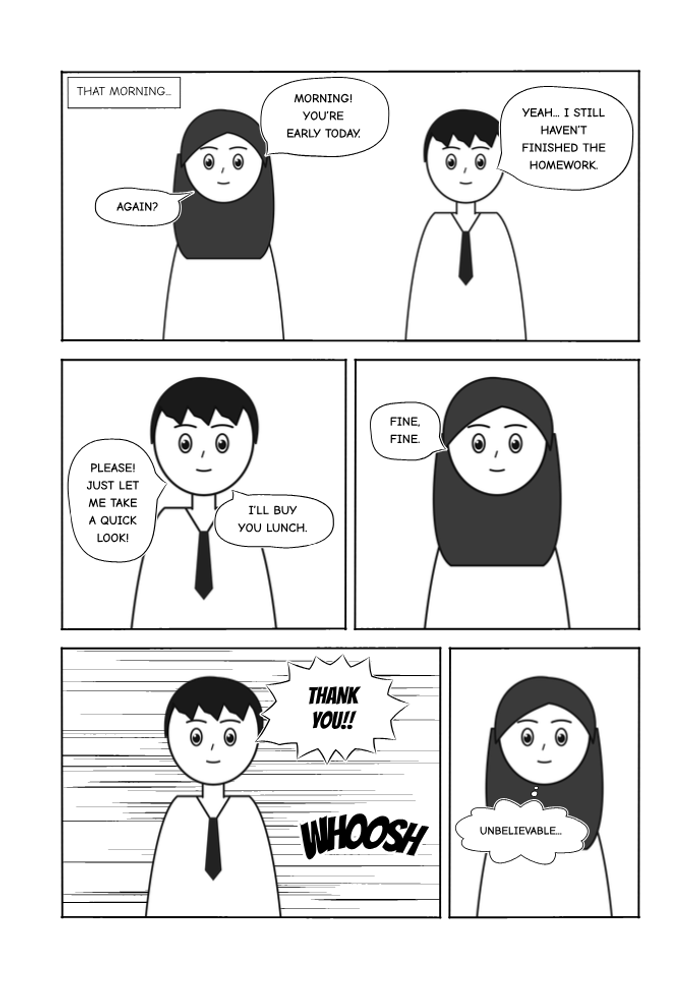
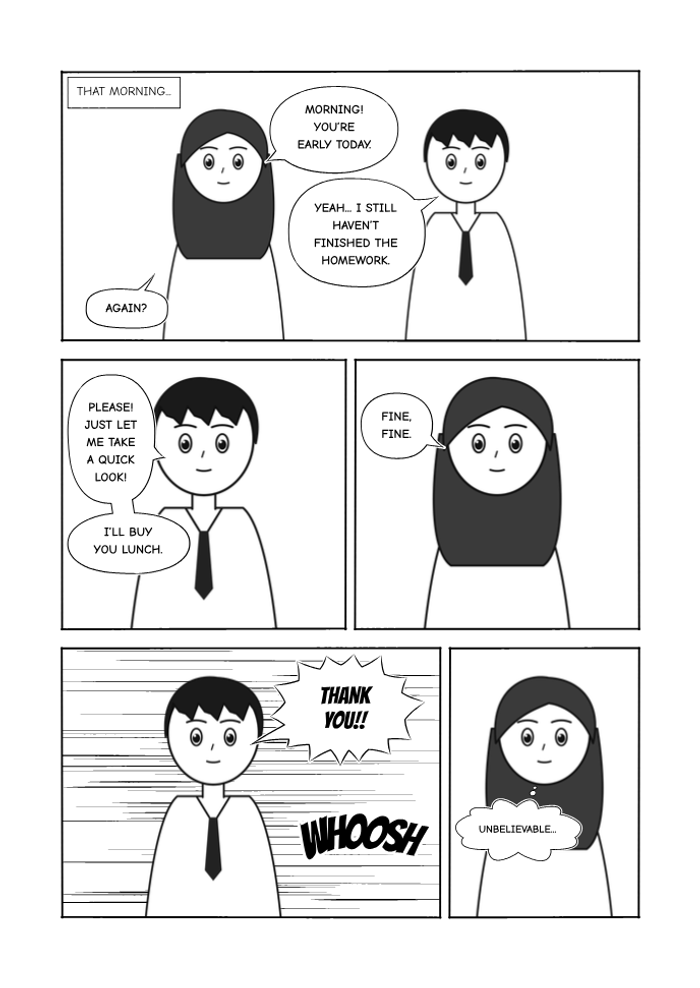
吹き出しを漫画の写植に近づける: 本体を整った楕円（本文の形で角を調整）、しっぽを細く鋭く、余白を広げる。角張った hexagon 形と as: gruff を追加。手で改行した行は少し長くても保つ

diff --git a/src/shapes/balloon.ts b/src/shapes/balloon.ts
@@ -85,7 +85,7 @@ function harmonic(h: Harmonics, th: number): number {
 function organicEllipse(a: number, b: number, p: ShapeParams, rng: Rng): (th: number) => number {
   const sq = p.squareness ?? 0.2;
   const n = 2 + 3 * sq;
-  const egg = p.egg ?? 0.06;
+  const egg = p.egg ?? 0.02;
   const h = harmonics(rng, p.irregularity);
   return (th: number) => seRadius(a, b, n, th) * harmonic(h, th) * (1 + egg * -Math.sin(th) * 0.5);
 }
@@ -351,6 +351,47 @@ const electronic: BodyGenerator = (w, h, p, seed) => {
   return { contour: { pts, closed: true, corners: pts.map((_, i) => ({ index: i, kind: "convex" as const })) }, inner, kind: "electronic", smooth: false, ruler: false };
 };
 
+/** a squared-off balloon (flat, blunt voices): straight sides, softly rounded corners */
+const hexagon: BodyGenerator = (w, h, p, seed) => {
+  const rng = new RngCls(seed);
+  const n = Math.max(5, Math.round(p.corners ?? 6));
+  const a = w / 2;
+  const b = h / 2;
+  // vertices on a superellipse; with 6 sides the flats run up the left and right
+  const ph = Math.PI / 2;
+  const V: Vec[] = [];
+  for (let i = 0; i < n; i++) {
+    const th = ph + (i / n) * TAU + rng.range(-0.04, 0.04) * p.irregularity * 4;
+    const r = seRadius(a, b, 2.4, th) * (1.06 + rng.range(-0.02, 0.02) * p.irregularity * 4);
+    V.push({ x: Math.cos(th) * r, y: Math.sin(th) * r });
+  }
+  const rad = Math.min(a, b) * 0.22;
+  const pts: Vec[] = [];
+  for (let i = 0; i < n; i++) {
+    const P0 = V[(i + n - 1) % n];
+    const P1 = V[i];
+    const P2 = V[(i + 1) % n];
+    const l0 = Math.hypot(P1.x - P0.x, P1.y - P0.y);
+    const l2 = Math.hypot(P2.x - P1.x, P2.y - P1.y);
+    const r0 = Math.min(rad, l0 * 0.35);
+    const r2 = Math.min(rad, l2 * 0.35);
+    const A = { x: P1.x + ((P0.x - P1.x) / l0) * r0, y: P1.y + ((P0.y - P1.y) / l0) * r0 };
+    const B = { x: P1.x + ((P2.x - P1.x) / l2) * r2, y: P1.y + ((P2.y - P1.y) / l2) * r2 };
+    for (let k = 0; k <= 6; k++) {
+      const t = k / 6;
+      pts.push({ x: (1 - t) * (1 - t) * A.x + 2 * t * (1 - t) * P1.x + t * t * B.x, y: (1 - t) * (1 - t) * A.y + 2 * t * (1 - t) * P1.y + t * t * B.y });
+    }
+    // the straight side to the next corner
+    const nl = Math.hypot(V[(i + 2) % n].x - P2.x, V[(i + 2) % n].y - P2.y);
+    const C = { x: P2.x + ((P1.x - P2.x) / l2) * Math.min(rad, l2 * 0.35), y: P2.y + ((P1.y - P2.y) / l2) * Math.min(rad, l2 * 0.35) };
+    const steps = Math.max(2, Math.ceil(Math.hypot(C.x - B.x, C.y - B.y) / 0.8));
+    for (let k = 1; k < steps; k++) pts.push({ x: B.x + ((C.x - B.x) * k) / steps, y: B.y + ((C.y - B.y) * k) / steps });
+    void nl;
+  }
+  const out = pts.map((q) => rot(q, p.tilt));
+  return { contour: { pts: out, closed: true, smooth: true }, inner: shrinkTo(out, 0.97), kind: "hexagon", smooth: true, ruler: false };
+};
+
 /** the outline shrunk toward its centroid: a text area that follows the shape */
 function shrinkTo(pts: Vec[], f: number): Vec[] {
   const cx = pts.reduce((a, q) => a + q.x, 0) / pts.length;
@@ -399,6 +440,7 @@ export const BODY_GENERATORS: Record<string, BodyGenerator> = {
   wavy,
   flash: ellipse,
   electronic,
+  hexagon,
   polygon,
   path: pathShape,
   none,

diff --git a/src/elements/balloon.ts b/src/elements/balloon.ts
@@ -155,6 +155,15 @@ export function planBalloon(el: RElement, ctx: ElemCtx): BalloonPlan {
       if (isFinite(lim)) boxLimit = Math.min(boxLimit ?? Infinity, Math.max(lim, style.fontSize * 4.5));
     }
     const tl = layoutText(text, style, ctx.fonts, boxLimit);
+    // a full block of text gets a balloon with a squarer core; a short word a round one
+    if (kind === "ellipse" && !(isObj(p.shape) && (p.shape as Obj).squareness !== undefined)) {
+      const lens = tl.lines.map((l) => l.length);
+      const L = lens.length;
+      const maxL = Math.max(1e-6, ...lens);
+      const fill = lens.reduce((a, b) => a + b, 0) / (L * maxL);
+      const elong = Math.max(tl.width, tl.height) / Math.max(1e-6, Math.min(tl.width, tl.height));
+      params.squareness = Math.max(0, Math.min(0.3, 0.03 * (L - 1) + (fill - 0.7) * 0.1 + (elong > 2.5 ? 0.25 : 0)));
+    }
     // points relative to text block center
     const cx = tl.width / 2;
     const cy = tl.height / 2;
@@ -457,7 +466,7 @@ function applyTails(contour: ShapeContour, tails: Obj[], tc: TailCtx): TailResul
       continue;
     }
     const gap = t.gap !== undefined ? toMm(t.gap as string, u) : 2 * u.k;
-    const maxLen = t.maxLength !== undefined ? toMm(t.maxLength as string, u) : Math.min(14 * u.k, Math.max(4 * u.k, minSide * 0.8));
+    const maxLen = t.maxLength !== undefined ? toMm(t.maxLength as string, u) : Math.min(10 * u.k, Math.max(3.5 * u.k, minSide * 0.55));
     let length: number;
     if (t.length !== undefined) length = toMm(t.length as string, u);
     else if (target) {
@@ -479,15 +488,15 @@ function applyTails(contour: ShapeContour, tails: Obj[], tc: TailCtx): TailResul
             break;
           }
       }
-      length = Math.min(maxLen, Math.max(2.5 * u.k, avail));
-    } else length = (kind === "zigzag" ? 11 : 5) * u.k;
+      length = Math.min(maxLen, Math.max(3.2 * u.k, avail));
+    } else length = (kind === "zigzag" ? 11 : 4.5) * u.k;
     // off-panel tails run past the frame and are cut by it
     // on a spiky body the tail must outreach the spikes to read as the pointer
     if (!offSide && t.length === undefined && (plan.params.kind === "spike" || plan.params.kind === "burst")) length = Math.max(length * 1.4, 6 * u.k);
     if (offSide && target) length = Math.hypot(target.x - R.x, target.y - R.y);
     const widthScale = typeof t.widthScale === "number" ? t.widthScale : 1;
     // a lightning-bolt tail is a narrower band than a wedge
-    const bw = (t.width !== undefined ? toMm(t.width as string, u) : Math.min(7 * u.k, Math.max(2.6 * u.k, minSide * 0.3)) * (kind === "zigzag" ? 0.7 : 1)) * widthScale;
+    const bw = (t.width !== undefined ? toMm(t.width as string, u) : Math.min(3.4 * u.k, Math.max(1.8 * u.k, minSide * 0.16)) * (kind === "zigzag" ? 1.2 : 1)) * widthScale;
     const bend = typeof t.bend === "number" ? t.bend : 0.1;
     const sideCurve = typeof t.sideCurve === "number" ? t.sideCurve : 0.12;
     const perp = { x: -dir.y, y: dir.x };

diff --git a/src/model/defaults.ts b/src/model/defaults.ts
@@ -9,7 +9,7 @@ export const BUILTIN_DEFAULTS: Record<string, Obj> = {
     background: "paper",
   },
   balloon: {
-    shape: { kind: "ellipse", irregularity: 0.35, tilt: ["-3deg", "3deg"] },
+    shape: { kind: "ellipse", irregularity: 0.12, tilt: ["-1.5deg", "1.5deg"] },
     stroke: { width: "0.25bmm", color: "black", pen: { preset: "g-pen" }, style: "solid", dash: ["1.6bmm", "1.0bmm"], dot: { size: "0.45bmm", gap: "0.9bmm" }, double: { gap: "0.6bmm", inner: "0.2bmm" } },
     fill: "paper",
     tail: { kind: "wedge", gap: "2bmm", bend: 0.15, sideCurve: 0.25, root: "auto", count: 3, shrink: 0.62, segments: 3 },
@@ -17,7 +17,7 @@ export const BUILTIN_DEFAULTS: Record<string, Obj> = {
     maxSize: ["70%", "70%"],
     aspect: "auto",
     aspectRange: [0.55, 1.8],
-    padding: ["0.45em", "0.9em"],
+    padding: ["0.6em", "0.8em"],
     minFontScale: 0.75,
     font: "dialogue",
     fontSize: "13bQ",
@@ -99,6 +99,8 @@ export const BUILTIN_STYLES: Record<string, Obj> = {
   shock: { shape: { kind: "flash" }, stroke: { style: "none" }, tail: { kind: "none" }, font: "thought" },
   electronic: { shape: { kind: "electronic" }, stroke: { width: "0.25bmm" }, tail: { kind: "zigzag" }, font: "dialogue" },
   offscreen: { shape: { kind: "ellipse" }, stroke: { width: "0.25bmm" }, tail: { kind: "wedge" }, font: "dialogue" },
+  // a blunt, flat or gruff voice: squared-off balloon with straight sides
+  gruff: { shape: { kind: "hexagon" }, stroke: { width: "0.25bmm" }, tail: { kind: "wedge" }, font: "dialogue" },
 };
 
 export const PAGE_PRESETS: Record<string, { w: number; h: number; unit: "mm" | "px" }> = {

diff --git a/src/elements/textstyle.ts b/src/elements/textstyle.ts
@@ -34,7 +34,15 @@ export function resolveTextStyle(p: Obj, u: UnitContext, lang: string, isBalloon
   const ls = p.letterSpacing !== undefined ? toMm(p.letterSpacing as string, emCtx) / fontSize : 0;
   const align = (p.align as TextStyle["align"]) ?? (isBalloon && writing === "horizontal" ? "center" : "start");
   let maxChars = typeof p.maxChars === "number" ? p.maxChars : undefined;
-  if (maxChars === undefined && isBalloon) maxChars = writing === "vertical" ? 8 : 14;
+  if (maxChars === undefined && isBalloon) {
+    maxChars = writing === "vertical" ? 8 : 14;
+    // lines the author broke by hand are kept whole when they are only a little longer
+    if (typeof p.text === "string" && p.text.includes("\n")) {
+      const plain = p.text.replace(/<[^>]*>/g, "").replace(/《[^》]*》/g, "").replace(/[｜|]/g, "");
+      const longest = Math.max(...plain.split("\n").map((l) => Array.from(l.trim()).length));
+      maxChars = Math.min(Math.round(maxChars * 1.5), Math.max(maxChars, longest));
+    }
+  }
   const tcy =
     p.tcy === "none"
       ? null

diff --git a/src/render/compose.ts b/src/render/compose.ts
@@ -1170,11 +1170,11 @@ function breakFaults(tl: import("../text/layout.js").TextLayout, lang: string): 
 
 /** fraction of rect `r` covered by the ellipse inscribed in `e` (sampled) */
 function ellipseOverlap(r: Rect, e: Rect): number {
-  if (!rectIntersect(r, { x: e.x - e.w * 0.06, y: e.y - e.h * 0.06, w: e.w * 1.12, h: e.h * 1.12 })) return 0;
+  if (!rectIntersect(r, { x: e.x - e.w * 0.14, y: e.y - e.h * 0.14, w: e.w * 1.28, h: e.h * 1.28 })) return 0;
   const cx = e.x + e.w / 2;
   const cy = e.y + e.h / 2;
-  // a little breathing room around the face
-  e = { x: cx - e.w * 0.56, y: cy - e.h * 0.56, w: e.w * 1.12, h: e.h * 1.12 };
+  // breathing room around the face, enough for a visible tail between balloon and face
+  e = { x: cx - e.w * 0.64, y: cy - e.h * 0.64, w: e.w * 1.28, h: e.h * 1.28 };
   const N = 8;
   let hit = 0;
   for (let j = 0; j < N; j++)

diff --git a/src/schema/schema.ts b/src/schema/schema.ts
@@ -201,7 +201,7 @@ const typo = {
   lang: z.string().optional(),
 };
 
-const BUILTIN_SHAPES = new Set(["ellipse", "round-rect", "rect", "cloud", "spike", "burst", "wavy", "flash", "electronic", "polygon", "path", "none"]);
+const BUILTIN_SHAPES = new Set(["ellipse", "round-rect", "rect", "cloud", "spike", "burst", "wavy", "flash", "electronic", "hexagon", "polygon", "path", "none"]);
 const SHAPE_KEYS = new Set(["kind", "irregularity", "tilt", "squareness", "egg", "radius", "ruler", "join", "lobes", "lobeSize", "depth", "count", "angleJitter", "curve", "inner", "waves", "amplitude", "waveform", "secondary", "corners", "jag", "points", "d", "textArea", "lineLength", "thickness", "strokes"]);
 
 const ShapeObj = z

diff --git a/docs/06-balloons.md b/docs/06-balloons.md
@@ -42,7 +42,7 @@
 | `maxSize` | Size | `[70%, 70%]` | `auto` のときの最大（コマの表示領域に対する割合） |
 | `aspect` | 数値 \| `auto` | `auto` | 本体の縦横比（幅 / 高さ）の希望値 |
 | `aspectRange` | `[最小, 最大]` | `[0.55, 1.8]` | `aspect: auto` のときに許す縦横比の範囲 |
-| `padding` | Length \| `[縦, 横]` | `[0.45em, 0.9em]` | 本文と本体の内側の安全領域との間隔 |
+| `padding` | Length \| `[縦, 横]` | `[0.6em, 0.8em]` | 本文と本体の内側の安全領域との間隔 |
 | `textOffset` | `[dx, dy]` | `[0, 0]` | 本文の位置の微調整 |
 | `textOutline` | Outline[] | - | 本文の縁取り。`shape: none` で絵の上に直接文字を置く場合に使う |
 | `overflow` | `shrink` \| `grow` \| `clip` \| `error` | `auto` のときは `grow`、固定サイズのときは `shrink` | 本文が収まらない場合の処理（[6.7.4](#674-収まらない場合)） |
@@ -70,6 +70,7 @@
 | `burst` | 爆発 | 絶叫、爆発的な驚き | P1 |
 | `flash` | フラッシュ | 衝撃を受けた心の声、強調する独白 | P1 |
 | `electronic` | 電子音 | 電話・テレビ・機械・スピーカー越しの声 | P1 |
+| `hexagon` | 角張り（六角形） | ぶっきらぼうな声、低く平板な声（直線の辺と丸めた角。`as: gruff`）。`corners` で角の数 | P1 |
 | `polygon` | 多角形 | 任意の形 | P1 |
 | `path` | パス | 任意の形 | P1 |
 | `icicle` | つらら | 冷たい声 | P2 |
@@ -79,15 +80,15 @@
 
 | パラメータ | 型 | 既定値 | 説明 |
 |---|---|---|---|
-| `irregularity` | 0〜1 | `0.35` | 形状レベルの不規則さ（[9.3](09-hand-drawn.md#93-揺らぎの階層)）。0 で幾何学的な形 |
-| `tilt` | Angle \| Range | `[-3deg, 3deg]` | 本体だけの傾き |
+| `irregularity` | 0〜1 | `0.12` | 形状レベルの不規則さ（[9.3](09-hand-drawn.md#93-揺らぎの階層)）。0 で幾何学的な形 |
+| `tilt` | Angle \| Range | `[-1.5deg, 1.5deg]` | 本体だけの傾き |
 | `strokes` | 整数 \| `auto` | `auto` | 閉じた輪郭を何本のストロークで描くか（[9.5.2](09-hand-drawn.md#952-閉じた形状)）。`ellipse`、`round-rect`、`wavy` で使う |
 
 ### 6.3.3 ellipse（楕円）
 
 | パラメータ | 型 | 既定値 | 説明 |
 |---|---|---|---|
-| `squareness` | 0〜1 | `0.12` | 0 で楕円、1 に近いほど角丸四角に近づく（超楕円の指数 n = 2 + 3 × squareness） |
+| `squareness` | 0〜1 | 本文から決める | 0 で楕円、1 に近いほど角丸四角に近づく（超楕円の指数 n = 2 + 3 × squareness）。指定しない場合は本文の形から決める: 短い本文は 0（楕円）、行（列）が多く長さのそろった塊ほど大きく（中心に四角い領域がある形）、1 列の細長い本文は 0.25 前後（カプセル形）。0〜0.3 に制限 |
 | `egg` | -1〜1 | `0.06` | 上下の非対称。正で上側が膨らむ |
 
 手描きの楕円は真円や数学的な楕円にならない。半径を角度 θ の関数として、低次の調和成分でわずかに歪める（[9.3.1](09-hand-drawn.md#931-形状レベルの不規則さ)）。
@@ -232,10 +233,10 @@ tail: none
 | `kind` | `wedge` \| `bubbles` \| `line` \| `zigzag` \| `none` | 形状と `as` による | しっぽの種類（下表） |
 | `to` | Point | 話者 | 向き先。`who` があり、同じコマに話者の画像があれば、その画像（[3.7.2](03-document-format.md#372-参照)） |
 | `direction` | Angle | `100deg`（下やや左） | `to` がない場合の向き |
-| `length` | Length | `to` までの距離から決める / 5 mm（`zigzag` は 7 mm） | しっぽの長さ（本体の縁から先端まで）。話者の顔（`face` の楕円）の手前で止める |
-| `maxLength` | Length | 本体の短辺の 80 %（4〜14 mm に制限） | 長さの上限。向き先が遠い場合は、向きだけを合わせてこの長さで止める |
+| `length` | Length | `to` までの距離から決める（3.2 bmm 以上） / 4.5 bmm（`zigzag` は 11 bmm） | しっぽの長さ（本体の縁から先端まで）。話者の顔（`face` の楕円）の手前で止める |
+| `maxLength` | Length | 本体の短辺の 55 %（3.5〜10 bmm に制限） | 長さの上限。向き先が遠い場合は、向きだけを合わせてこの長さで止める |
 | `gap` | Length | `2mm` | 先端と向き先の点の間に残す距離（しっぽは口元に触れない） |
-| `width` | Length | 本体の短辺の 30 %（2.6〜7 mm に制限） | 付け根の幅 |
+| `width` | Length | 本体の短辺の 16 %（1.8〜3.4 bmm に制限） | 付け根の幅。漫画のしっぽは細く鋭い |
 | `widthScale` | 数値 | `1` | 付け根の幅の倍率。カスケードの後に掛ける（`as: shout` などで使う） |
 | `bend` | -1〜1 | `0.15` | しっぽ全体の曲がり。正で時計回りに曲がる |
 | `sideCurve` | 0〜1 | `0.25` | 両側の辺の内側への反り。大きいほど先端が鋭く見える |
@@ -470,6 +471,7 @@ panels:
 | `scream` | 絶叫 | `burst` | 0.35 mm | `wedge`（`widthScale: 1.5`） | `shout` | `fontScale: 1.5` | P1 |
 | `shock` | 衝撃を受けた心の声 | `flash` | - | `none` | `thought` | | P1 |
 | `electronic` | 電話・機械の声 | `electronic` | 0.25 mm | `zigzag` | `dialogue` | | P1 |
+| `gruff` | ぶっきらぼうな声 | `hexagon` | 0.25 mm | `wedge` | `dialogue` | | P1 |
 | `offscreen` | 画面外の声 | `ellipse` | 0.25 mm | `wedge`（`offscreen`） | `dialogue` | | P1 |
 
 キャラクターの `voice`（[3.15](03-document-format.md#315-characters)）で、キャラクターごとに発話の種類の見た目を上書きできる。
